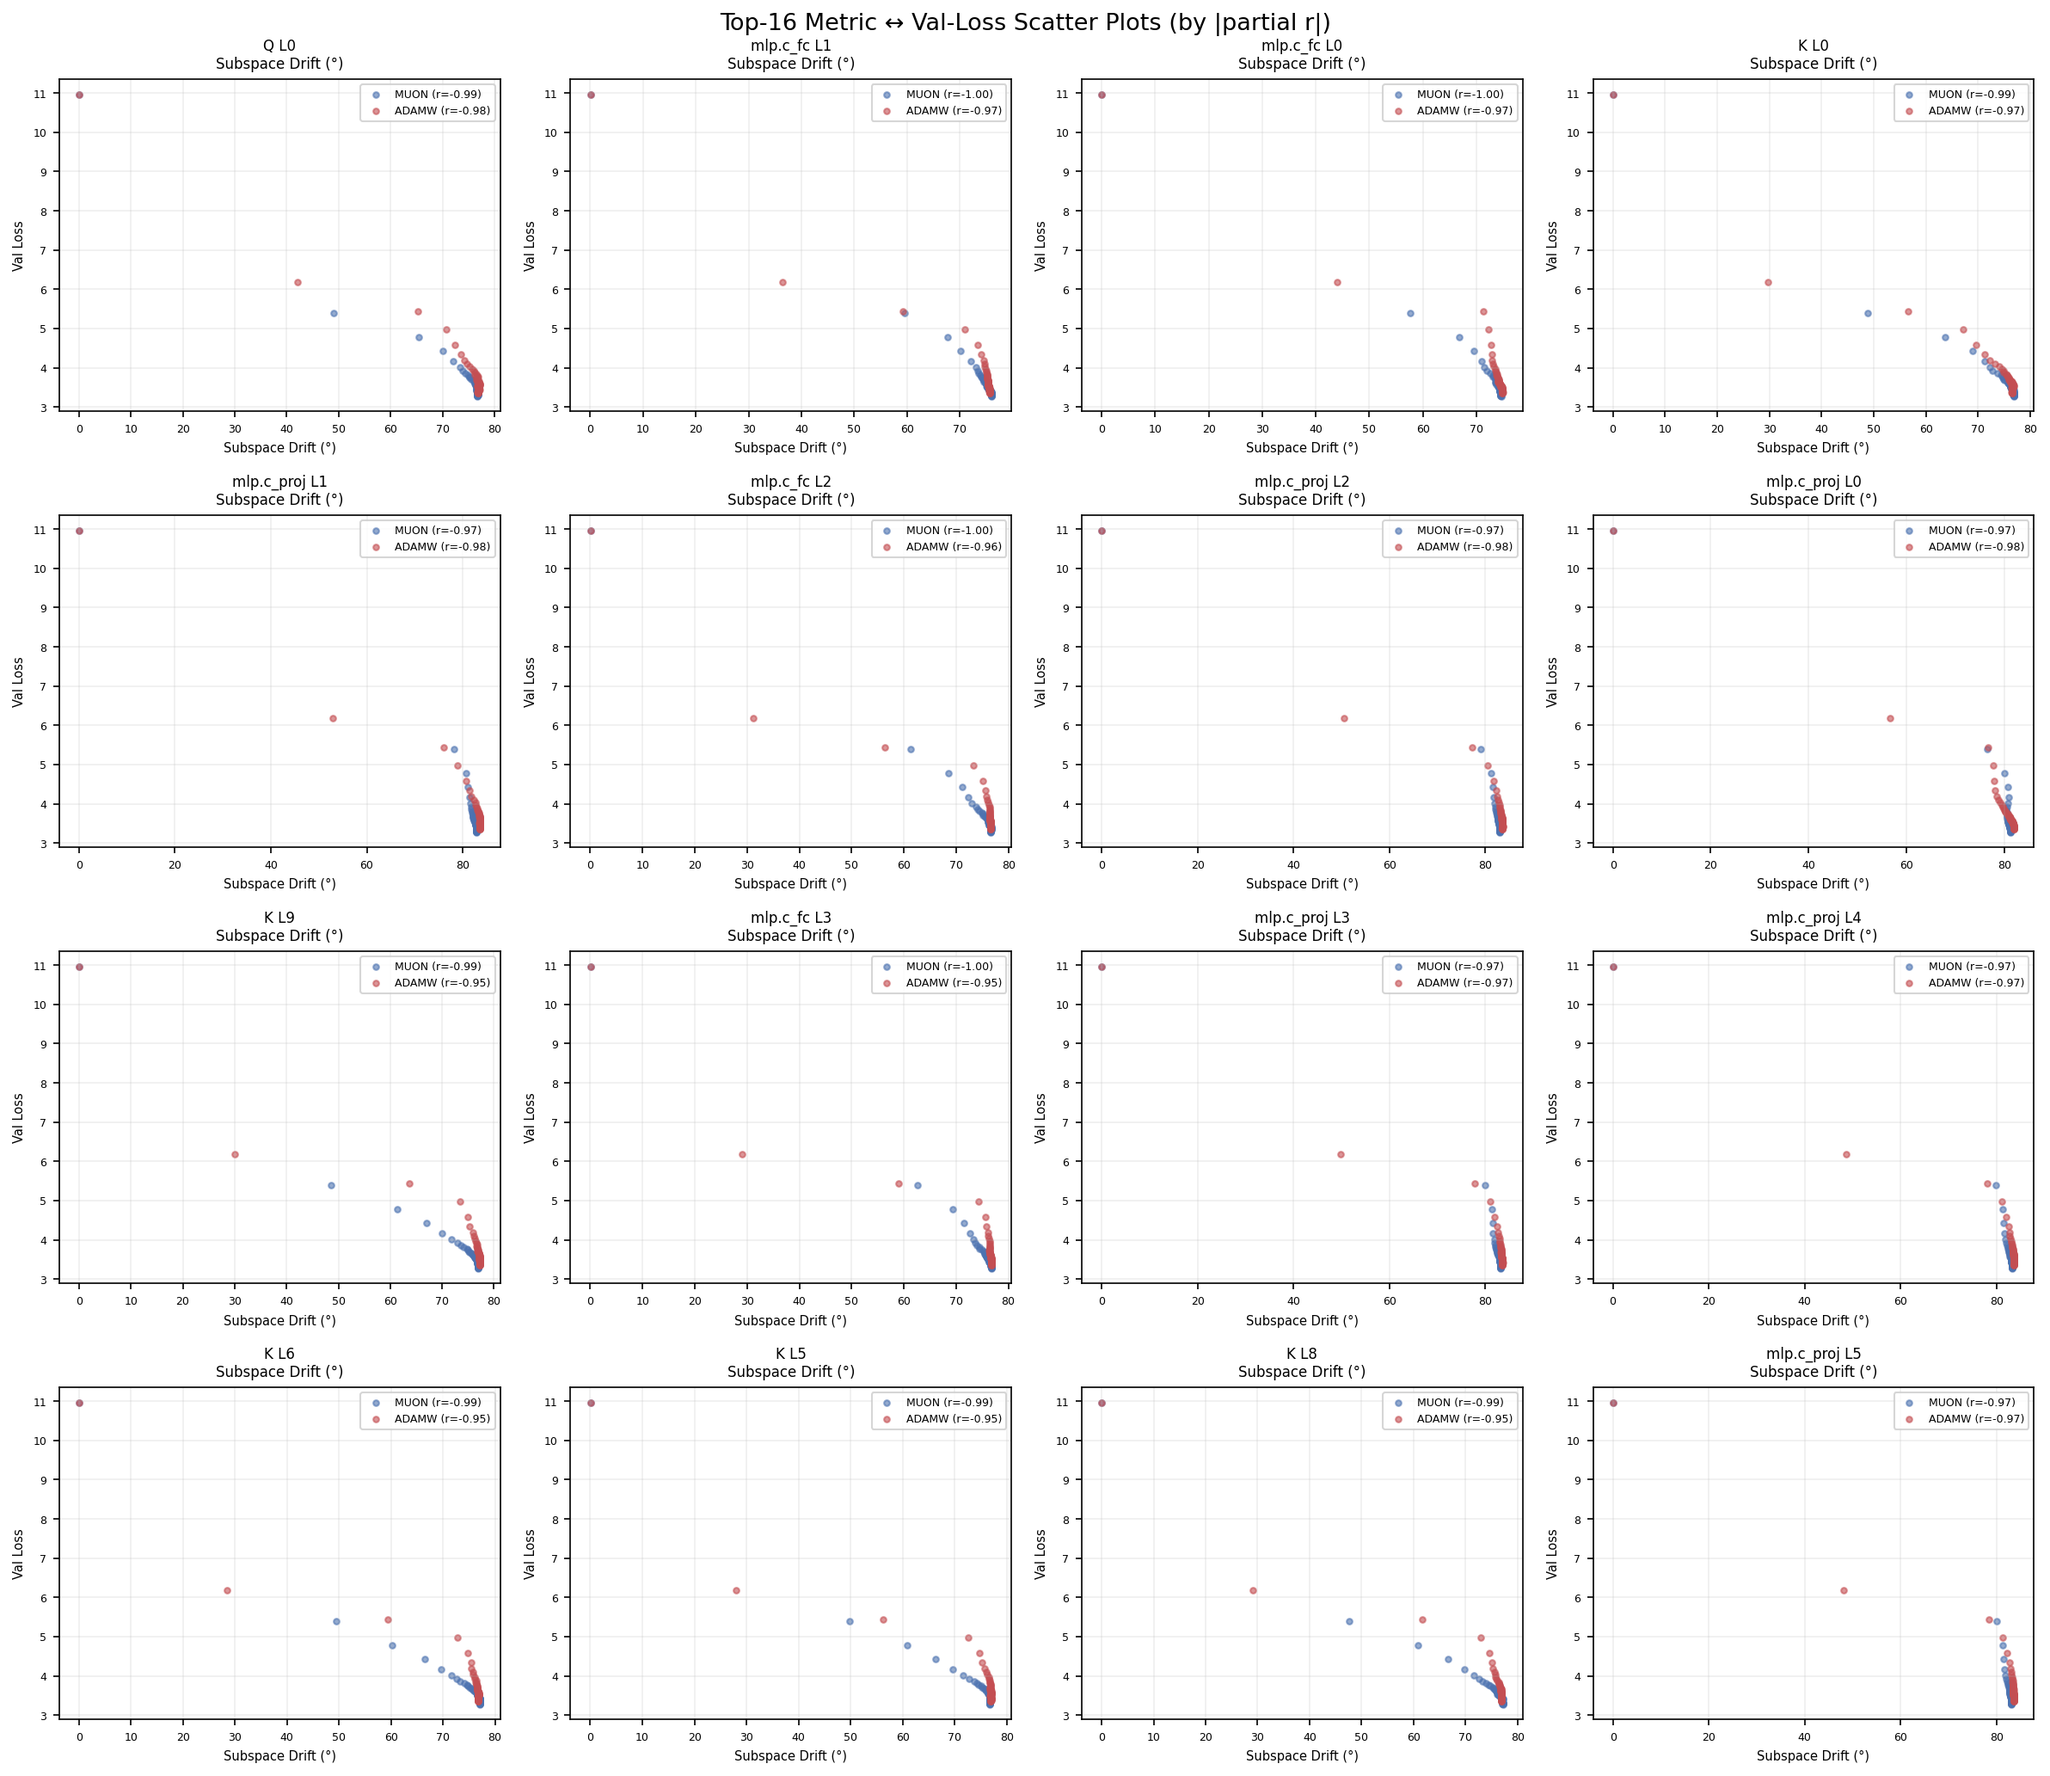
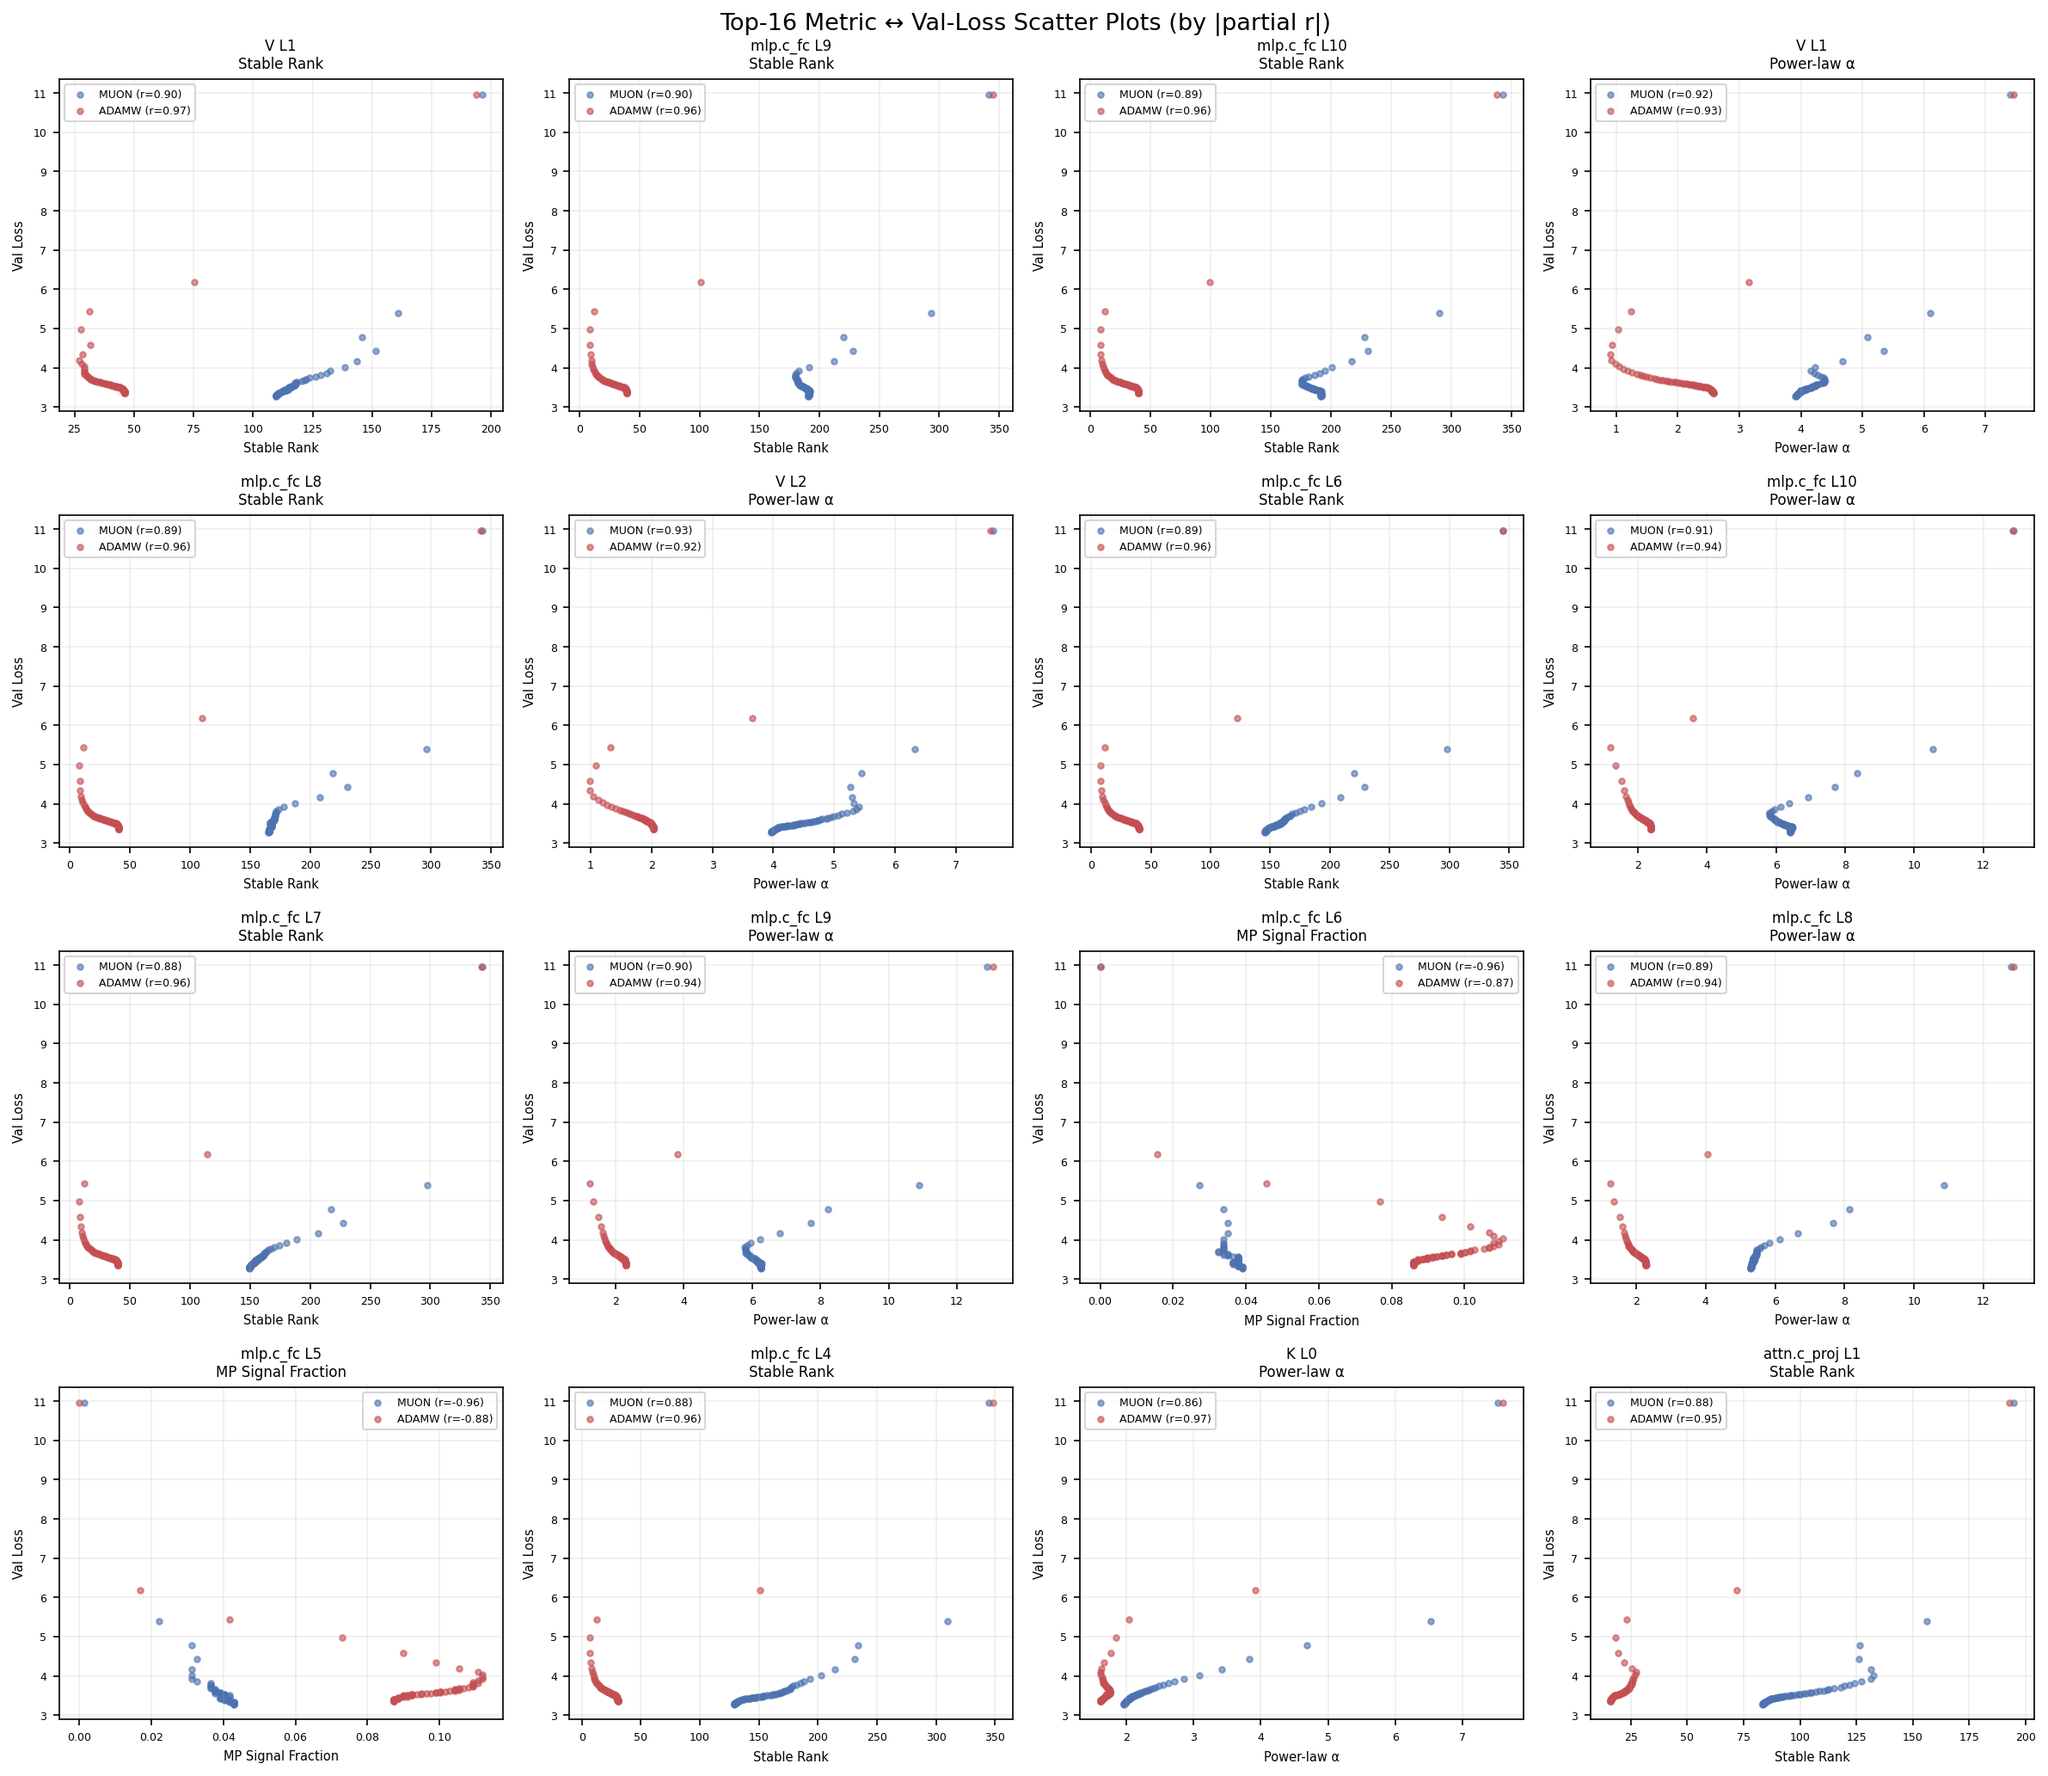
top 16 - subspace drift excluded

diff --git a/V5 - Train/analyse/correlation.py b/V5 - Train/analyse/correlation.py
@@ -256,9 +256,12 @@ def plot_scatter_top_pairs(corr, iterations, val_loss, arrays, n_top=16):
     averaged across optimizers.  Both optimizers shown on each panel.
     """
     # Rank all (metric, mat, layer) triples by mean |partial r| across optimizers
+    EXCLUDE = {'subspace_drift'}
     scores = []
     for mat in MATRIX_TYPES:
         for mi, metric in enumerate(ALL_METRICS):
+            if metric in EXCLUDE:
+                continue
             for layer in range(N_LAYERS):
                 vals = [abs(corr[opt][mat]['partial'][mi, layer]) for opt in OPTIMIZERS]
                 vals = [v for v in vals if np.isfinite(v)]
